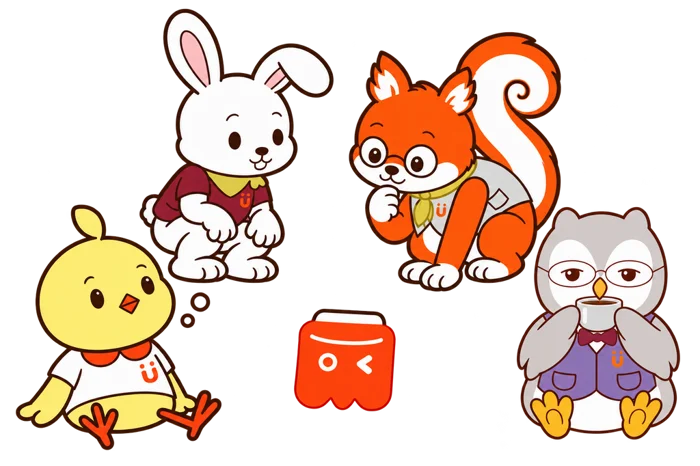
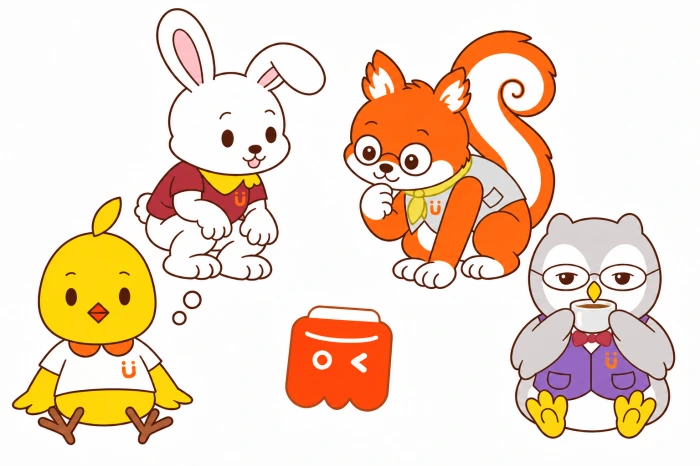
Refine Mimo and unify outlines in homepage team illustration

Changed region(s): [[0.48, 0.0601, 0.99, 0.9614], [0.0, 0.0, 0.48, 0.9614], [0.39, 0.6309, 0.57, 0.9013]]

diff --git a/index.html b/index.html
@@ -14,7 +14,7 @@
 <meta property="og:title" content="HugMap | 知る・遊ぶ・残す — With U">
 <meta property="og:description" content="発達のヒント、毎日の遊び、日々やリハビリの記録。HugMapはお子さまのペースに寄り添い、家族や支援者との共有を支えます。">
 <meta property="og:url" content="https://withuai.com/">
-<meta property="og:image" content="https://withuai.com/assets/images/home/team.webp">
+<meta property="og:image" content="https://withuai.com/assets/images/home/team.webp?art=pocket-warm-outline">
 <meta property="og:locale" content="ja_JP">
 <link rel="icon" href="/assets/images/logo/favicon/favicon.svg">
 <link rel="stylesheet" href="/assets/css/home.css">
@@ -53,7 +53,7 @@
 <h1>知る。遊ぶ。残す。<br>成長を、いっしょに。</h1>
 <p>発達のヒントも、今日の遊びも。<br>その子のペースに寄り添う、HugMap。</p>
 <a class="wv-cta" href="#wv-discover">HugMapでできること</a></div>
-<img src="/assets/images/home/team.webp" width="700" height="466" decoding="async" fetchpriority="high" alt="With Uのキャラクターたち">
+<img src="/assets/images/home/team.webp?art=pocket-warm-outline" width="700" height="466" decoding="async" fetchpriority="high" alt="With Uのキャラクターたち">
 </section>
 <section class="wv-feature" id="wv-discover"><span id="wv-notice" class="section-anchor" aria-hidden="true"></span>
 <div class="wv-photo home-screen-gallery"><div class="home-screen-switch" role="group" aria-label="アプリ画面を選ぶ" hidden><button type="button" data-screen="0" aria-controls="app-screen-0" aria-pressed="true">姿を探す</button><button type="button" data-screen="1" aria-controls="app-screen-1" aria-pressed="false">発達の解説</button></div><figure id="app-screen-0" class="home-app-screen"><img class="wv-screen" src="/assets/images/home/discovery-ja.webp" width="780" height="1688" decoding="async" loading="lazy" alt="歩いて移動する姿を探す、日本語の発達画面"><figcaption class="wv-label">姿を探す</figcaption></figure><figure id="app-screen-1" class="home-app-screen"><img class="wv-screen" src="/assets/images/home/development-ja.webp" width="780" height="1688" decoding="async" loading="lazy" alt="身ぶりやサインで伝える姿を解説する、日本語の発達画面"><figcaption class="wv-label">発達の解説</figcaption></figure></div>

diff --git a/en/index.html b/en/index.html
@@ -14,7 +14,7 @@
 <meta property="og:title" content="HugMap | Learn, play and remember — With U">
 <meta property="og:description" content="Development insights, everyday play, and records from home and therapy. HugMap helps families and support teams follow each child&#x27;s own pace.">
 <meta property="og:url" content="https://withuai.com/en/">
-<meta property="og:image" content="https://withuai.com/assets/images/home/team.webp">
+<meta property="og:image" content="https://withuai.com/assets/images/home/team.webp?art=pocket-warm-outline">
 <meta property="og:locale" content="en_US">
 <link rel="icon" href="/assets/images/logo/favicon/favicon.svg">
 <link rel="stylesheet" href="/assets/css/home.css">
@@ -53,7 +53,7 @@
 <h1>Learn. Play. Remember.<br>Growing together.</h1>
 <p>Development insights and everyday play.<br>HugMap follows your child&#x27;s own pace.</p>
 <a class="wv-cta" href="#wv-discover">Explore HugMap</a></div>
-<img src="/assets/images/home/team.webp" width="700" height="466" decoding="async" fetchpriority="high" alt="The With U character team">
+<img src="/assets/images/home/team.webp?art=pocket-warm-outline" width="700" height="466" decoding="async" fetchpriority="high" alt="The With U character team">
 </section>
 <section class="wv-feature" id="wv-discover"><span id="wv-notice" class="section-anchor" aria-hidden="true"></span>
 <div class="wv-photo home-screen-gallery"><div class="home-screen-switch" role="group" aria-label="Choose an app screen" hidden><button type="button" data-screen="0" aria-controls="app-screen-0" aria-pressed="true">Find moments</button><button type="button" data-screen="1" aria-controls="app-screen-1" aria-pressed="false">Development insights</button></div><figure id="app-screen-0" class="home-app-screen"><img class="wv-screen" src="/assets/images/home/discovery-en.webp" width="780" height="1688" decoding="async" loading="lazy" alt="English discovery screen showing walking-related moments"><figcaption class="wv-label">Find moments</figcaption></figure><figure id="app-screen-1" class="home-app-screen"><img class="wv-screen" src="/assets/images/home/development-en.webp" width="780" height="1688" decoding="async" loading="lazy" alt="English communication development screen explaining gestures and signs"><figcaption class="wv-label">Development insights</figcaption></figure></div>

diff --git a/docs/homepage.md b/docs/homepage.md
@@ -46,3 +46,9 @@ Check at desktop, tablet and mobile widths, including 320px:
 - Keep the three self-introduction books as evergreen destination pages. Everyday episodes and play ideas can be adapted for social posts; the homepage does not need a continuously growing episode feed. Update the books when character settings or content change, rather than duplicating each social post on the site.
 
 - Buddy cards use approved brand accents (Mimo `#FF511B`, Luke `#D7C862`, Gen `#7D2741`) for the image divider and book link, with pale matching portrait backgrounds. Character raster artwork is unchanged. Orange/yellow buttons use dark text; wine buttons use white text.
+
+- Homepage `team.webp` now uses the Mimo reference update (built-in imagegen): retain the seated group composition, match the approved seated Mimo (`exec-4bc04379-c849-4c90-bb41-ba4f1777bcb9.png`) with a smooth broad head, no cheek protrusion, and brown feet, with body `#FED304`, shirt `#F4F1F0`, collar/mark `#FF511B`. The generated group is exported on white as 700×466 WebP; image generation can introduce small line changes in the other characters.
+
+- Group line-weight refinement (built-in imagegen): use seated Mimo’s thin warm-brown contour as the reference for all characters, including the pocket mascot. Preserve head shapes, poses and composition; reduce heavy outer borders and inner strokes, retaining solid pupils.
+
+- Pocket outline refinement (built-in imagegen): change only the pocket mascot’s outer and handle strokes toward warm reddish brown `#B64D25`, retaining fine lines, orange fill and white facial features.
